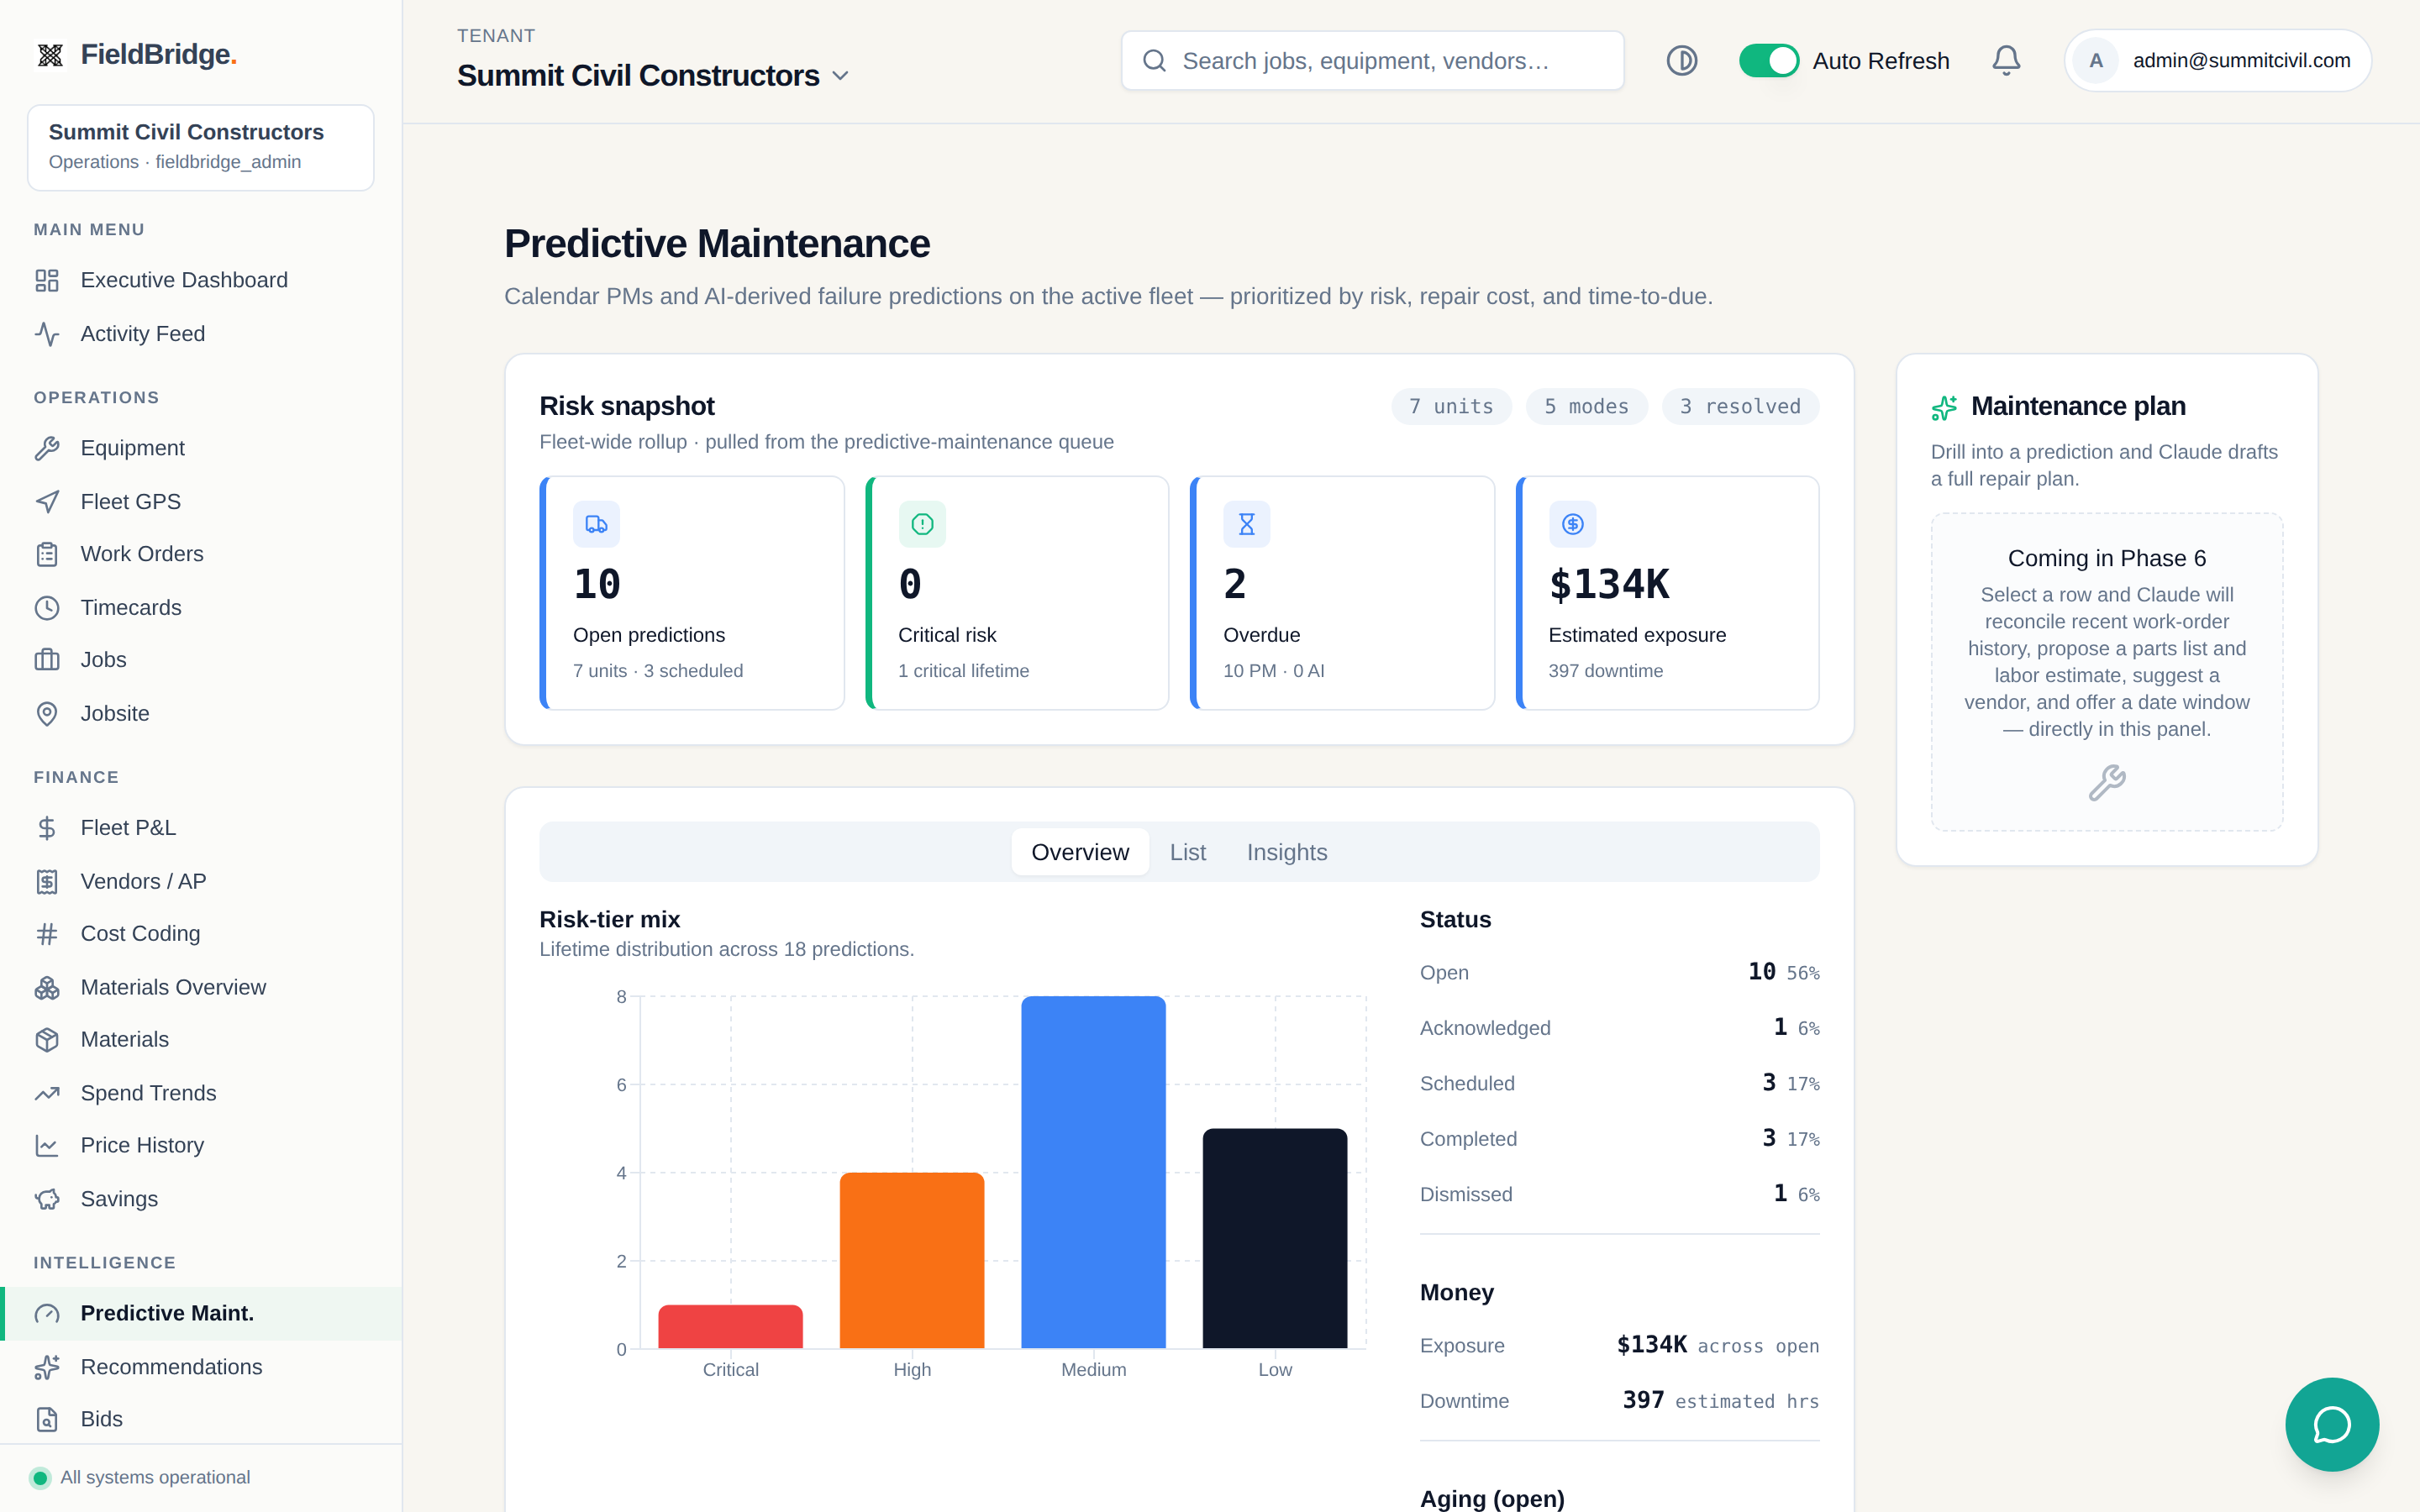
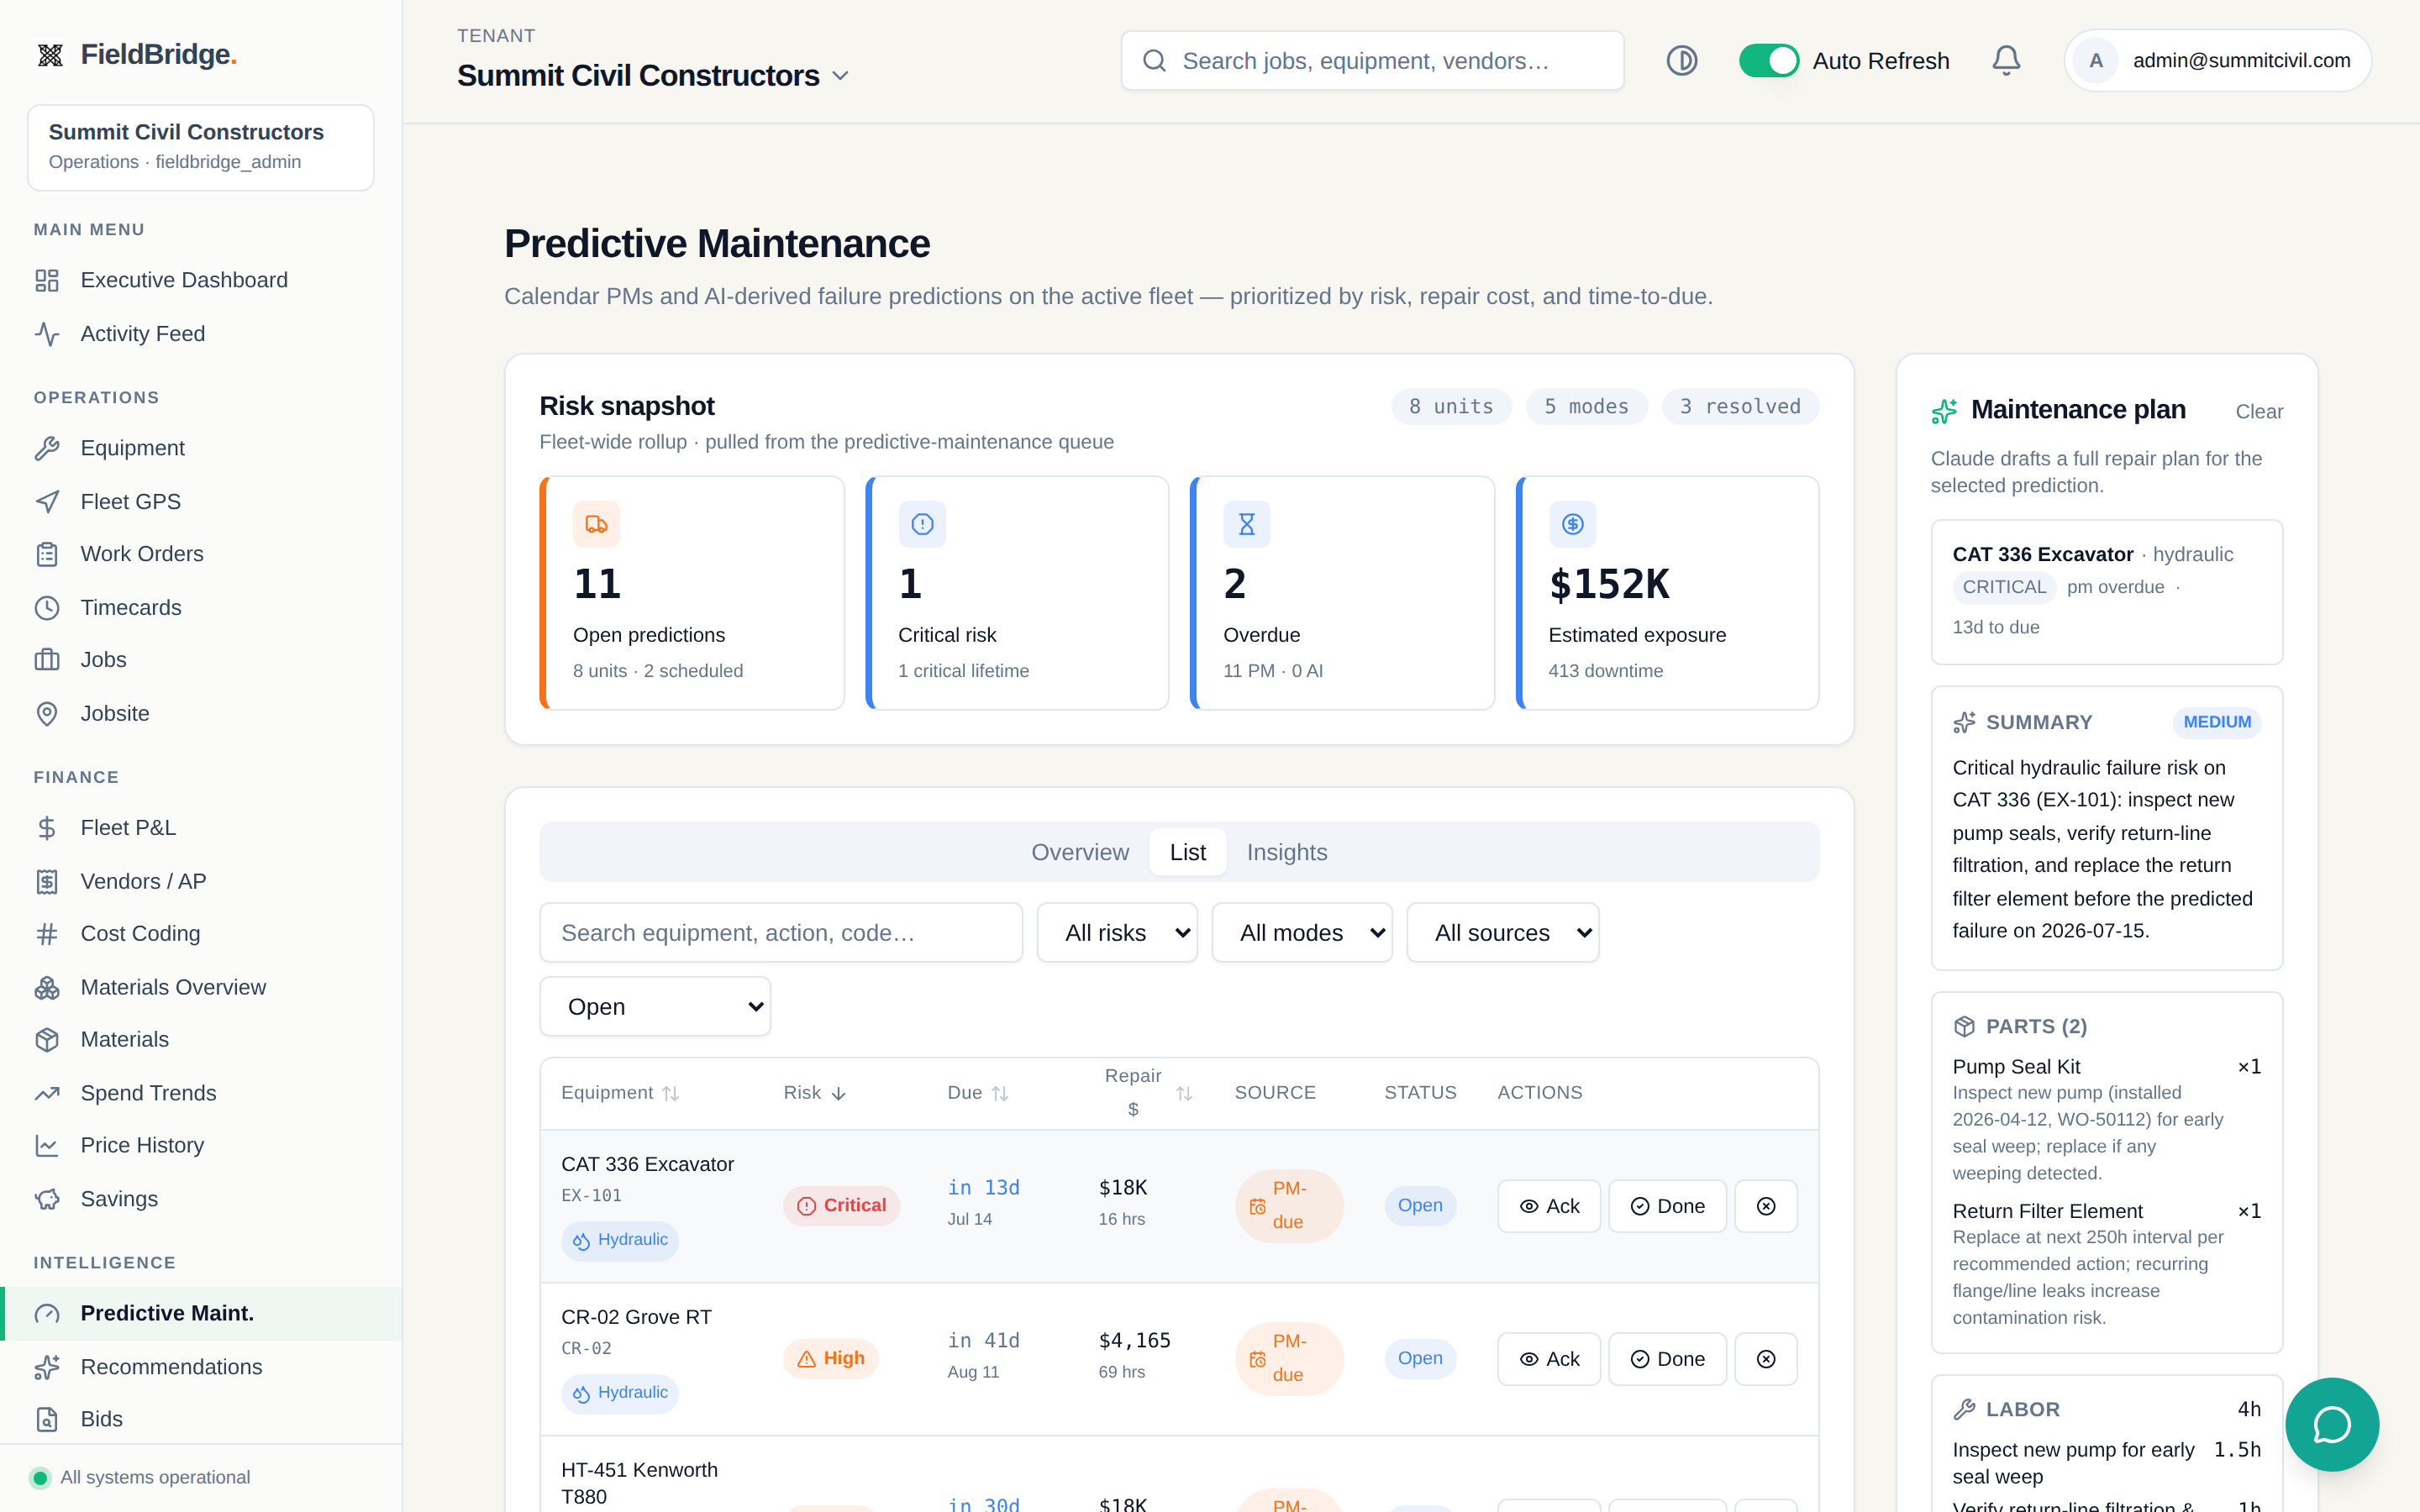
Predictive Maintenance: show Claude maintenance-plan rail (summary/parts/labor)

diff --git a/docs/screenshots.md b/docs/screenshots.md
@@ -70,7 +70,7 @@ Equipment-shop activity: open backlog, overdue tail, and cost-vs-budget across t
 ![Work Orders](../assets/screenshots/work-orders.png)
 
 ### Predictive Maintenance
-Calendar PMs and AI-derived failure predictions on the active fleet, prioritized by risk tier, repair cost, and time-to-due, with estimated downtime exposure.
+Calendar PMs and AI-derived failure predictions on the active fleet, prioritized by risk tier, repair cost, and time-to-due. Selecting a prediction drafts a **Claude maintenance plan** in the right rail - a structured repair plan with summary + confidence, a parts list, a labor breakdown, a suggested date window, and the open questions the model still needs answered before it can firm up cost.
 
 ![Predictive Maintenance](../assets/screenshots/predictive-maintenance.png)
 